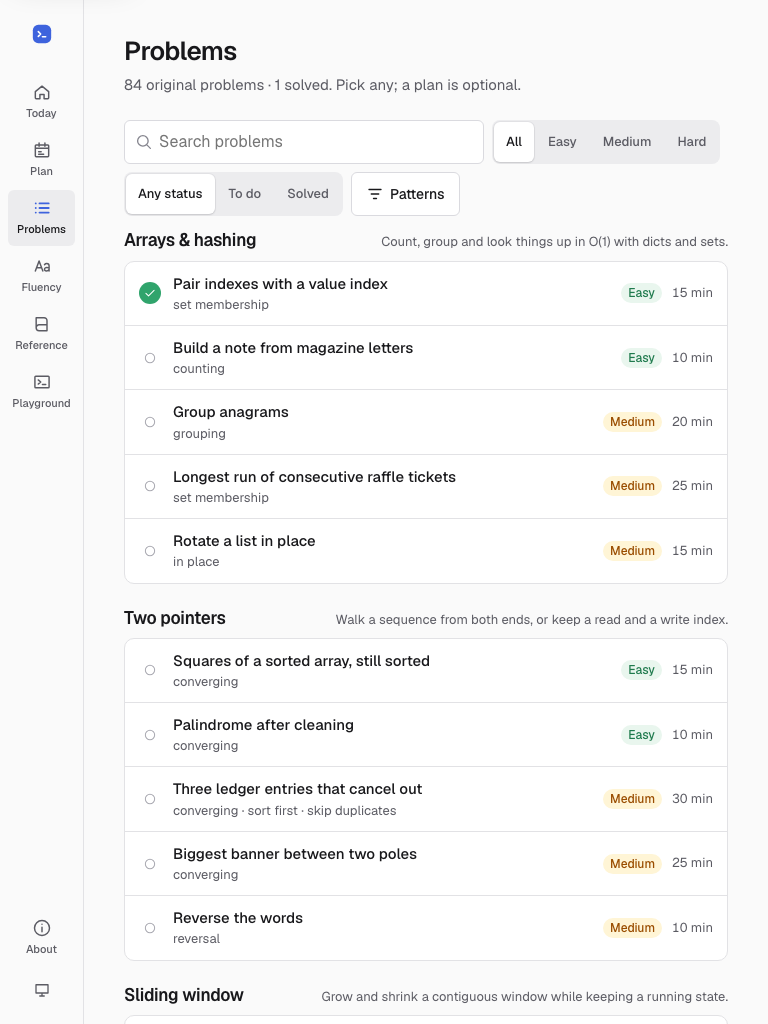
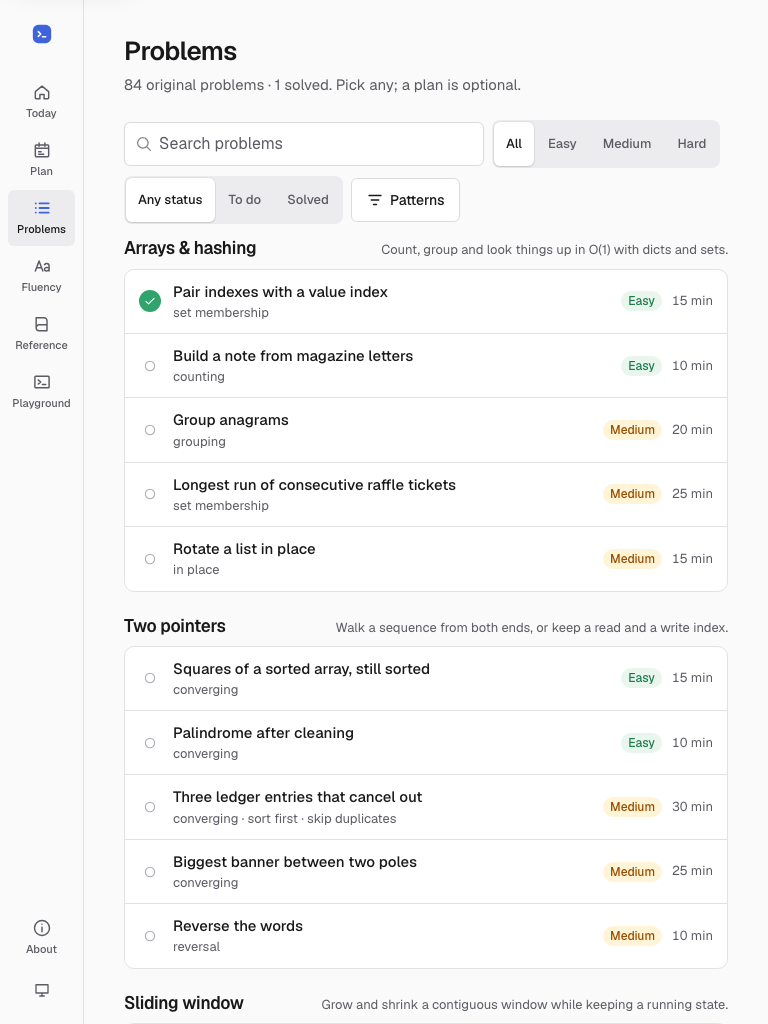
fix(a11y): re-critique follow-ups
- Focus no longer drops to <body> when Run/Submit swaps to Stop: the editor
  stays focusable while read-only (edits blocked), so Ctrl/Cmd+Enter keeps it
  focused; a button-started run moves focus to Stop and back to its button
  (useRunFocus, also in Fluency and Playground).
- Stop/danger fill #c62a2f (white text 5.6:1, was 3.91:1).
- Setup: tapping an unselected card advances again (the click handler cleared
  the tap flag before onChange read it); presets expose aria-pressed.
- 44 px touch targets moved to the end of the stylesheet so later rules no
  longer override them (segmented, back link, key bar, topic chips, case rows).
- Placeholders use secondary text colour (>= 5.8:1 both themes).
- E2E: unselected-card taps advance; focus survives a run.

diff --git a/tests/e2e/journey.spec.ts b/tests/e2e/journey.spec.ts
@@ -231,6 +231,40 @@ test.describe('Problem workspace runtime states @device', () => {
   });
 });
 
+test.describe('Onboarding taps and run focus @device', () => {
+  test('tapping an unselected card advances to the next question', async ({ page }) => {
+    await page.goto('#/setup');
+    await page.getByRole('radio', { name: /^8 weeks/ }).click();
+    await expect(page.getByRole('heading', { level: 1, name: 'How many hours a week can you practise?' })).toBeVisible();
+    await page.getByRole('radio', { name: /^4 h/ }).click();
+    await expect(page.getByRole('heading', { level: 1, name: 'Where are you with these patterns?' })).toBeVisible();
+    await page.getByRole('radio', { name: /^New to these patterns/ }).click();
+    await expect(page.getByRole('heading', { level: 1, name: 'Anything to focus on?' })).toBeVisible();
+    await expect(page.getByTestId('setup-summary')).toContainText('over 8 weeks');
+  });
+
+  test('focus survives a run: shortcut keeps the editor, a button run returns focus to its button', async ({ page }, info) => {
+    const w = watchErrors(page);
+    await page.goto('#/p/two-sum-indexes');
+    await openCode(page, info);
+    await setEditor(page, TWO_SUM_WRONG);
+    // Hardware-keyboard shortcut (desktop layout): the editor stays focused and keeps taking input after the run.
+    if (!narrowWs(info)) {
+      await page.keyboard.press('ControlOrMeta+Enter');
+      await expect(page.getByTestId('run-summary')).toHaveAttribute('data-mode', 'examples', { timeout: 90_000 });
+      await expect(page.locator('[data-testid=editor] .cm-content')).toBeFocused();
+      await page.keyboard.insertText('# still typing');
+      await expect(page.locator('[data-testid=editor] .cm-content')).toContainText('# still typing');
+    }
+    // Button run: focus goes to Stop during the run (if it lasts) and back to the button after.
+    await page.getByTestId('submit').focus();
+    await page.keyboard.press('Enter');
+    await expect(page.getByTestId('run-summary')).toHaveAttribute('data-mode', 'submit', { timeout: 90_000 });
+    await expect(page.getByTestId('submit')).toBeFocused();
+    expect(w.errors).toEqual([]);
+  });
+});
+
 test.describe('Problem grading and persistence @runtime', () => {
   test('Run examples, Submit, reload: solve and draft survive (every browser)', async ({ page }, info) => {
     const w = watchErrors(page);

diff --git a/src/styles/app.css b/src/styles/app.css
@@ -31,6 +31,7 @@
   --fail: #c62a2f;
   --fail-bg: #fdeded;
   --fail-solid: #e5484d;
+  --danger-fill: #c62a2f; /* white text 5.6:1 */
   --hint: #9a4d00;
   --hint-bg: #fff5d6;
   --hint-solid: #f5a524;
@@ -106,6 +107,7 @@
   --fail: #ff8f8a;
   --fail-bg: #2f1214;
   --fail-solid: #e5484d;
+  --danger-fill: #c62a2f; /* white text 5.6:1 */
   --hint: #f5c24b;
   --hint-bg: #2a1f08;
   --hint-solid: #e2a336;
@@ -151,6 +153,7 @@
     --fail: #ff8f8a;
     --fail-bg: #2f1214;
     --fail-solid: #e5484d;
+    --danger-fill: #c62a2f; /* white text 5.6:1 */
     --hint: #f5c24b;
     --hint-bg: #2a1f08;
     --hint-solid: #e2a336;
@@ -198,6 +201,10 @@ body.no-scroll {
 body.is-resizing {
   user-select: none;
   cursor: col-resize;
+}
+::placeholder {
+  color: var(--gray-900);
+  opacity: 1;
 }
 ::selection {
   background: var(--accent-subtle);
@@ -360,7 +367,7 @@ main:focus {
 }
 }
 .btn-danger {
-  background: var(--fail-solid);
+  background: var(--danger-fill);
   color: #fff;
 }
 .btn-danger:hover {
@@ -1156,17 +1163,6 @@ main {
   font-size: var(--fs-sm);
   color: var(--gray-1000);
   cursor: pointer;
-}
-@media (pointer: coarse) {
-  .chip,
-  .segmented button,
-  .back-link {
-    min-height: 44px;
-  }
-  .keybar button {
-    min-width: 40px;
-    height: 44px;
-  }
 }
 .chip:hover {
   border-color: var(--gray-600);
@@ -2758,5 +2754,24 @@ details.stdin textarea {
   }
   .topic-section > h2 {
     break-after: avoid;
+  }
+}
+
+/* ------------------------------------------- touch targets (keep last: wins the cascade) */
+@media (pointer: coarse) {
+  .chip,
+  .segmented button,
+  .back-link,
+  .topic-chip,
+  .case-head {
+    min-height: 44px;
+  }
+  .keybar button {
+    min-width: 40px;
+    height: 44px;
+  }
+  .topic-chip {
+    display: inline-flex;
+    align-items: center;
   }
 }

diff --git a/src/components/ui.tsx b/src/components/ui.tsx
@@ -60,7 +60,9 @@ export function ChoiceGroup<T extends string | number>({
 }) {
   const tapped = useRef(false);
   return (
-    <fieldset className="choices" style={columns ? ({ '--cols': columns } as React.CSSProperties) : undefined}>
+    <fieldset
+      onKeyDown={() => (tapped.current = false)}
+      className="choices" style={columns ? ({ '--cols': columns } as React.CSSProperties) : undefined}>
       <legend className="visually-hidden">{label}</legend>
       {options.map((o) => (
         <label key={String(o.value)} className={`choice${o.value === value ? ' is-on' : ''}`} onPointerDown={() => (tapped.current = true)}>
@@ -74,8 +76,12 @@ export function ChoiceGroup<T extends string | number>({
               tapped.current = false;
             }}
             onClick={() => {
-              if (o.value === value && tapped.current) onChange(o.value, true);
-              tapped.current = false;
+              // Re-tapping the selected card still advances (no change event fires). Do not
+              // clear the flag here: React may run this before onChange, which reads it.
+              if (o.value === value && tapped.current) {
+                tapped.current = false;
+                onChange(o.value, true);
+              }
             }}
           />
           <span className="choice-label">{o.label}</span>

diff --git a/src/pages/Problem.tsx b/src/pages/Problem.tsx
@@ -13,6 +13,7 @@ import { Drawer } from '../components/Drawer';
 import { Icon } from '../components/Icon';
 import { RichText, inline } from '../components/RichText';
 import { RuntimeStatus } from '../components/RuntimeStatus';
+import { useRunFocus } from '../components/useRunFocus';
 import { DifficultyTag } from '../components/ui';
 import { Verdict, verdictOf } from '../components/Verdict';
 import { adaptPlan, isFinished, itemHref, itemState, patternTitle, problemById, whyLine, titleOf, todayDay } from '../lib/coding';
@@ -138,6 +139,7 @@ function Workspace({ problem: e }: { problem: CodingProblem }) {
   const failsThisVisit = useRef(0);
   const running = phase !== 'idle' && runId !== null && runId === myRun.current;
   const otherBusy = phase !== 'idle' && !running;
+  const markRunFocus = useRunFocus(running);
   const hintsShown = ep?.hintsShown ?? 0;
   const draftOutdated = initialDraft.current && initialDraft.current.exerciseVersion < e.version;
 
@@ -177,6 +179,7 @@ function Workspace({ problem: e }: { problem: CodingProblem }) {
 
   const run = async (mode: 'examples' | 'submit') => {
     if (runner.busy) return;
+    markRunFocus();
     const src = sourceRef.current;
     const hash = sourceHash(src);
     flushSave();

diff --git a/src/pages/Practice.tsx b/src/pages/Practice.tsx
@@ -7,6 +7,7 @@ import { Drawer } from '../components/Drawer';
 import { RichText, inline } from '../components/RichText';
 import { GradeOutput, RunSummary } from '../components/RunOutput';
 import { RuntimeStatus } from '../components/RuntimeStatus';
+import { useRunFocus } from '../components/useRunFocus';
 import { Segmented } from '../components/ui';
 import { StatusMark } from '../components/ui';
 import { Icon } from '../components/Icon';
@@ -187,6 +188,7 @@ function ExerciseView({ exercise: e, next }: { exercise: Exercise; next: Exercis
   const saveTimer = useRef<ReturnType<typeof setTimeout> | null>(null);
   const running = phase !== 'idle' && runId !== null && runId === myRun.current;
   const otherBusy = phase !== 'idle' && !running;
+  const markRunFocus = useRunFocus(running);
   const hintsShown = ep?.hintsShown ?? 0;
   const draftOutdated = initialDraft.current && initialDraft.current.exerciseVersion < e.version;
 
@@ -220,6 +222,7 @@ function ExerciseView({ exercise: e, next }: { exercise: Exercise; next: Exercis
 
   const onRun = async () => {
     if (runner.busy) return;
+    markRunFocus();
     const src = sourceRef.current;
     const hash = sourceHash(src);
     flushSave();

diff --git a/src/components/useRunFocus.ts b/src/components/useRunFocus.ts
@@ -1,0 +1,23 @@
+// Keeps keyboard focus sensible across a run: the Run / Submit button is replaced by
+// Stop while running, which would otherwise drop focus to <body>. If the run started
+// from a button, focus moves to Stop, then back to that button when the run ends.
+// If it started from the editor (Ctrl/Cmd+Enter), the editor keeps focus throughout.
+import { useCallback, useEffect, useRef } from 'react';
+
+const RUN_BUTTONS = new Set(['run', 'run-examples', 'submit']);
+
+export function useRunFocus(running: boolean) {
+  const origin = useRef<string | null>(null);
+  const mark = useCallback(() => {
+    const id = (document.activeElement as HTMLElement | null)?.dataset?.testid;
+    origin.current = id && RUN_BUTTONS.has(id) ? id : null;
+  }, []);
+  useEffect(() => {
+    const id = origin.current;
+    if (!id) return;
+    const target = running ? '[data-testid=stop]' : `[data-testid=${id}]`;
+    if (!running) origin.current = null;
+    requestAnimationFrame(() => document.querySelector<HTMLElement>(target)?.focus());
+  }, [running]);
+  return mark;
+}

diff --git a/src/pages/Playground.tsx b/src/pages/Playground.tsx
@@ -1,6 +1,7 @@
 import { useEffect, useRef, useState } from 'react';
 import { Icon } from '../components/Icon';
 import { radioKeys } from '../components/ui';
+import { useRunFocus } from '../components/useRunFocus';
 import { CodeEditor } from '../components/CodeEditor';
 import { RunSummary, StreamOutput } from '../components/RunOutput';
 import { RuntimeStatus } from '../components/RuntimeStatus';
@@ -80,6 +81,7 @@ export function PlaygroundPage({ route }: { route: PlaygroundRoute }) {
   const myRun = useRef<number | null>(null);
   const running = phase !== 'idle' && runId !== null && runId === myRun.current;
   const otherBusy = phase !== 'idle' && !running;
+  const markRunFocus = useRunFocus(running);
   const sourceRef = useRef(source);
   sourceRef.current = source;
 
@@ -137,6 +139,7 @@ export function PlaygroundPage({ route }: { route: PlaygroundRoute }) {
 
   const run = async () => {
     if (runner.busy) return;
+    markRunFocus();
     const src = sourceRef.current;
     const hash = sourceHash(src);
     setResult(null);

diff --git a/src/components/CodeEditor.tsx b/src/components/CodeEditor.tsx
@@ -64,7 +64,8 @@ export function CodeEditor({ value, onChange, onRun, onSubmit, readOnly = false,
           python(),
           editorTheme,
           EditorView.lineWrapping,
-          ro.current.of([EditorState.readOnly.of(readOnly), EditorView.editable.of(!readOnly)]),
+          // Read-only blocks edits but keeps the editor focusable, so a run never throws focus out.
+          ro.current.of(EditorState.readOnly.of(readOnly)),
           EditorView.contentAttributes.of({ 'aria-label': label }),
           EditorView.theme({ '.cm-content': { minHeight: `${minLines * 1.5}em` } }),
           EditorView.updateListener.of((u) => {
@@ -101,7 +102,7 @@ export function CodeEditor({ value, onChange, onRun, onSubmit, readOnly = false,
 
   useEffect(() => {
     view.current?.dispatch({
-      effects: ro.current.reconfigure([EditorState.readOnly.of(readOnly), EditorView.editable.of(!readOnly)]),
+      effects: ro.current.reconfigure(EditorState.readOnly.of(readOnly)),
     });
   }, [readOnly]);
 

diff --git a/src/pages/Setup.tsx b/src/pages/Setup.tsx
@@ -124,6 +124,7 @@ export function SetupPage() {
                 key={pr.id}
                 type="button"
                 className={`preset${prefs.weeks === pr.weeks && prefs.hoursPerWeek === pr.hours ? ' is-on' : ''}`}
+                aria-pressed={prefs.weeks === pr.weeks && prefs.hoursPerWeek === pr.hours}
                 onClick={() => {
                   setPrefs((x) => ({ ...x, weeks: pr.weeks, hoursPerWeek: pr.hours }));
                   setStep(2);
